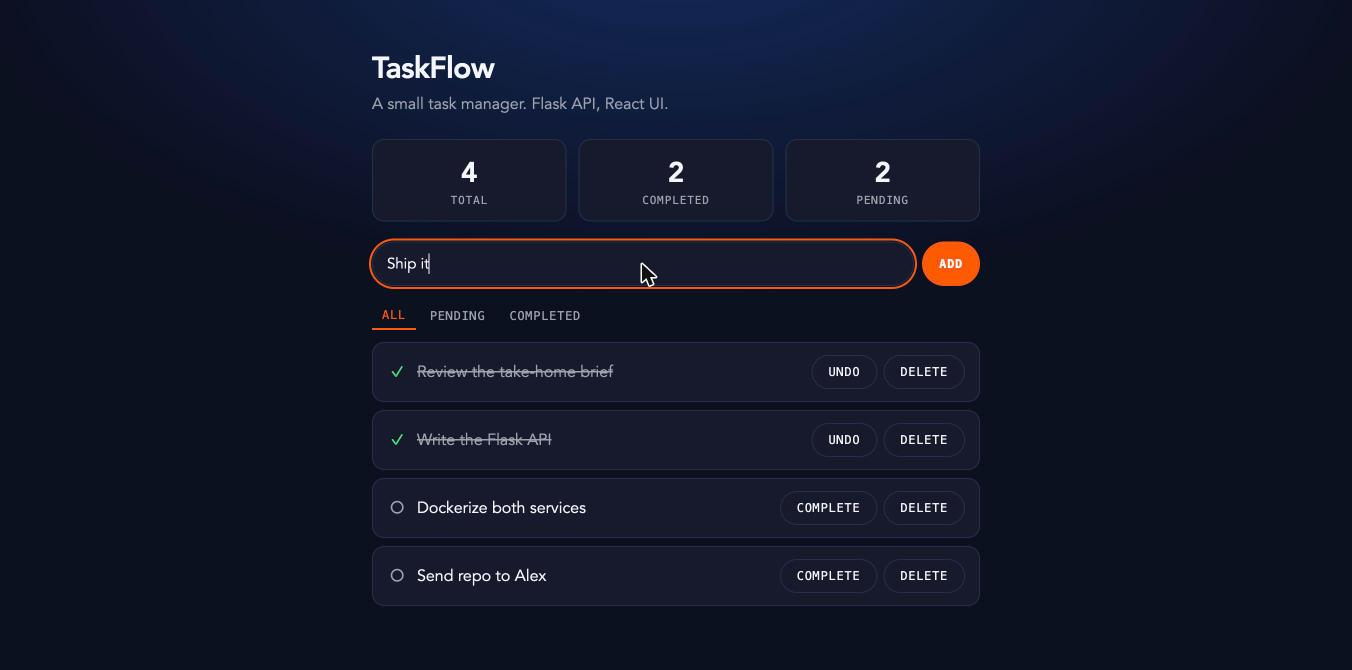
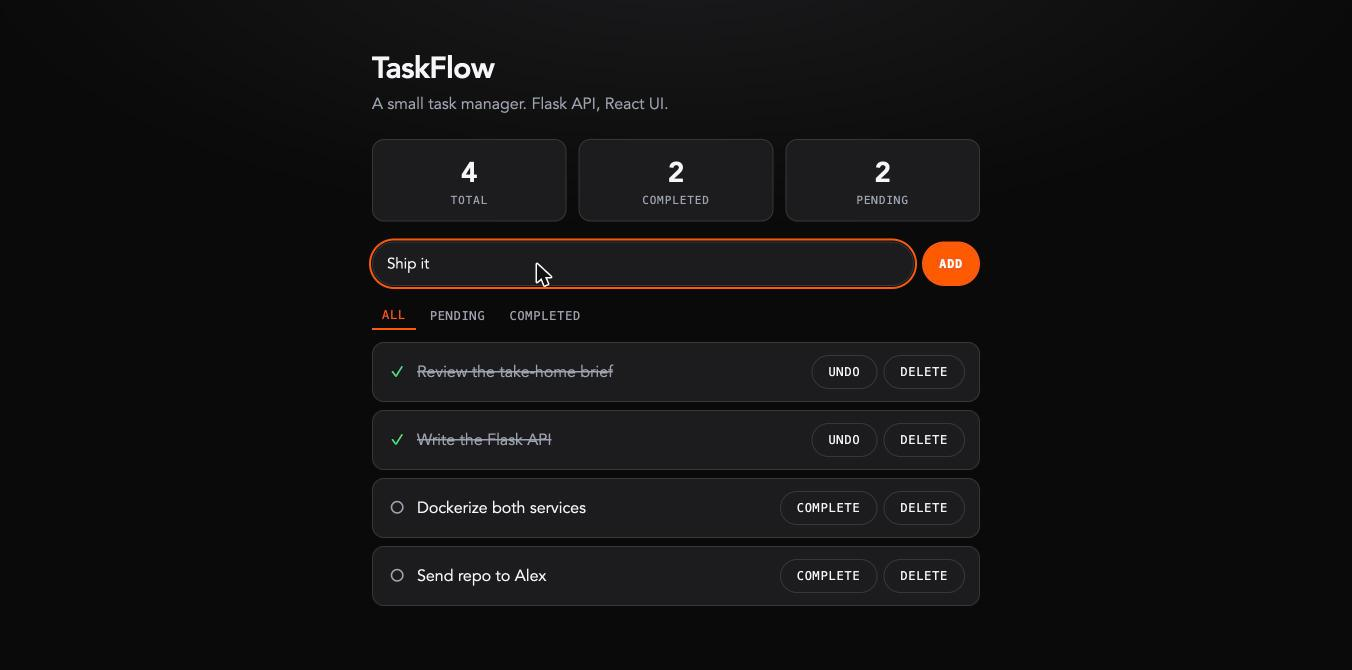
Palette: neutral black/charcoal to match carbonarc.co's actual theme, not the hero image; new screenshot

diff --git a/frontend/src/styles.css b/frontend/src/styles.css
@@ -1,14 +1,14 @@
-/* Palette and button treatment borrowed from carbonarc.co: near-black navy,
-   one orange accent, pill buttons with uppercase mono labels. Layout and
-   component structure are unchanged; this file is still the whole design. */
+/* Palette and button treatment borrowed from carbonarc.co: black background,
+   charcoal cards, one orange accent, pill buttons with uppercase mono labels.
+   Layout and component structure are unchanged; this file is still the whole design. */
 :root {
-  --bg: #0b1020;
-  --bg-wash: radial-gradient(1200px 600px at 50% -10%, #142a5c 0%, #0b1020 60%);
-  --card: #151a2b;
-  --card-border: #26304a;
+  --bg: #0a0a0b;
+  --bg-wash: radial-gradient(1200px 500px at 50% -10%, #1c1c1e 0%, #0a0a0b 60%);
+  --card: #1c1c1e;
+  --card-border: #373737;
   --text: #f5f6fa;
   --muted: #9ca3af;
-  --border: #26304a;
+  --border: #373737;
   --accent: #ff5a00;
   --accent-hover: #ff8a3d;
   --danger: #ff6b6b;
